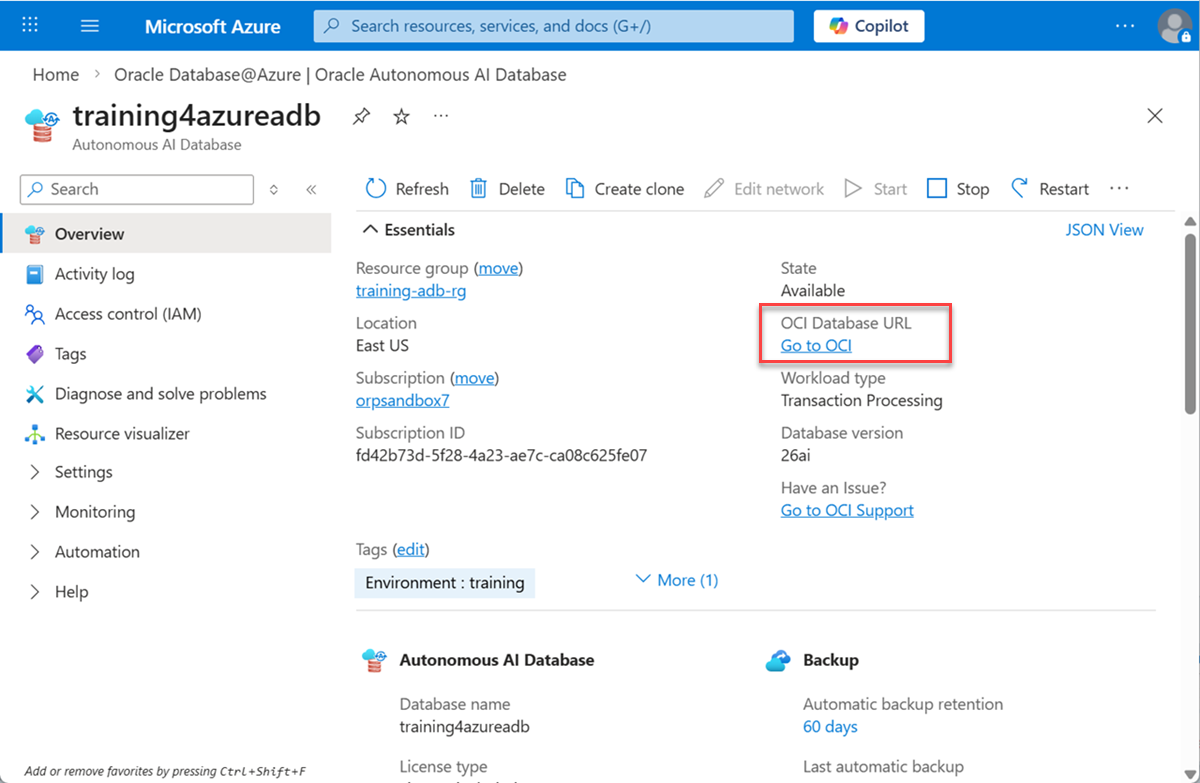
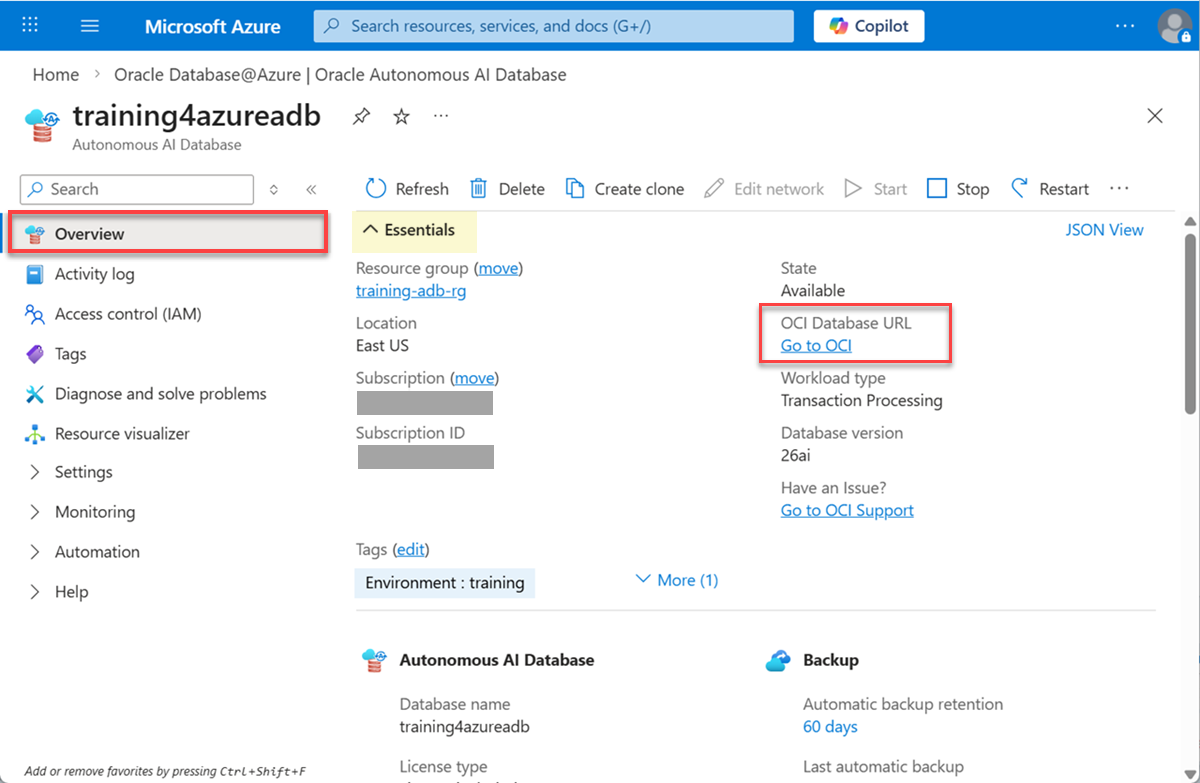
updates to provision lab

Changed region(s): [[0.0, 0.2452, 0.4008, 0.3372], [0.2775, 0.4904, 0.5242, 0.613]]

diff --git a/azure/adb-azure-provision/provision-database/provision-database.md b/azure/adb-azure-provision/provision-database/provision-database.md
@@ -116,7 +116,7 @@ In this lab, you will:
 
     ![New Autonomous AI Database is displayed](./images/adb-displayed.png " ")
 
-## Task 2: Review your Oracle Autonomous AI Database Deployment in OCI
+## Task 2: Review your Provisioned Oracle Autonomous AI Database in OCI
 
 In this task, you will learn how to view your newly provisioned Oracle Autonomous AI Database in OCI. 
 
@@ -130,9 +130,13 @@ In this task, you will learn how to view your newly provisioned Oracle Autonomou
 
 4. Click the Autonomous AI Database name link to display the **Overview** page. 
 
-5. In the **Essentials** section, click the **Go to OCI** link.
+5. Go to the **Essentials** section **> OCI Database URL** field, click the **Go to OCI** link.
 
     ![Click Go to OCI link](./images/click-go-oci.png " ")
+
+    To click the **Go to OCI** link in the Azure portal and successfully display your provisioned Oracle Autonomous AI Database, you must meet specific identity and configuration requirements such as:
+    - **Linked OCI Tenancy:** Your Azure subscription must be onboarded and linked to an Oracle Cloud Infrastructure (OCI) tenancy.
+    - **OCI Permissions:** You must have a valid OCI user account with permissions to view and manage Autonomous Database resources within the OCI console.
 
 6. The **Autonomous AI Database** details page is displayed. 
 
